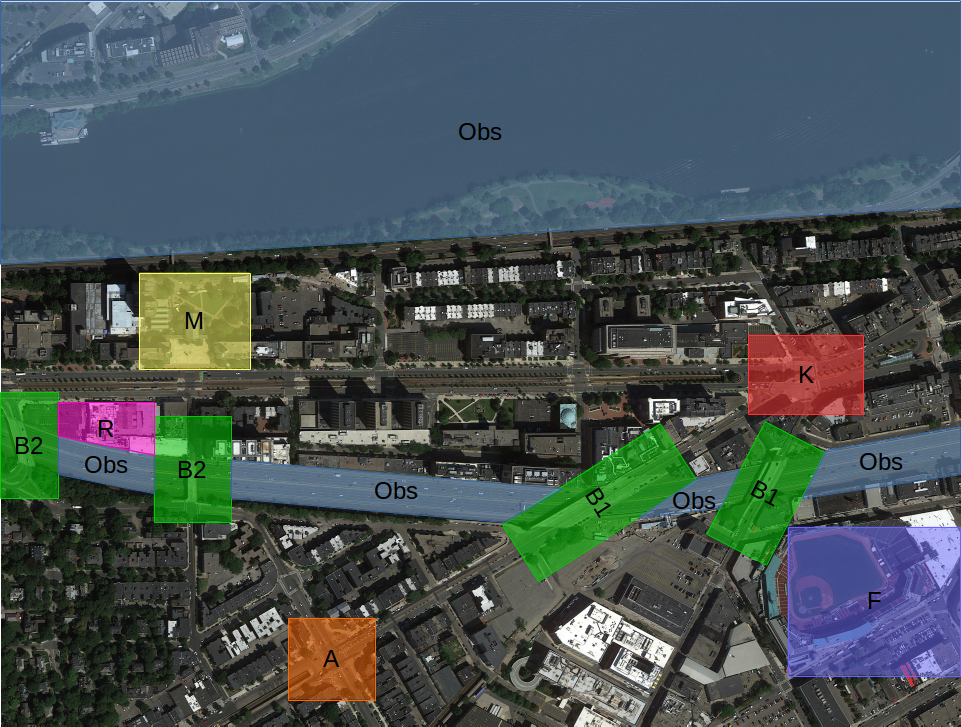
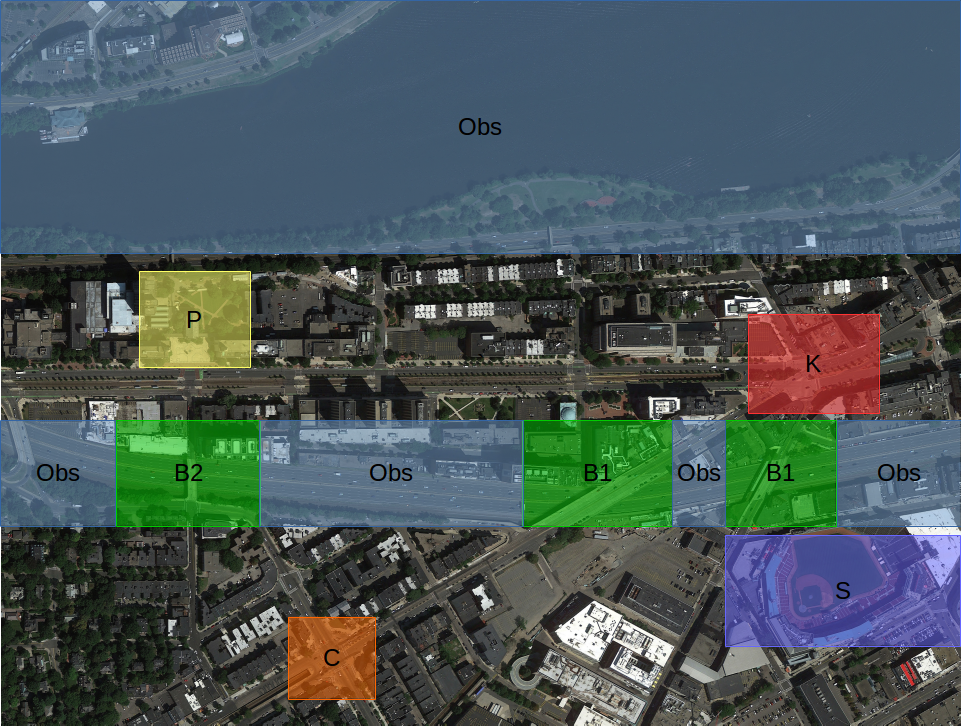
Added background image to mission visualization.

diff --git a/src/firm/mission.py b/src/firm/mission.py
@@ -77,7 +77,7 @@ Vehicles: {vehicles}
         if self.environment.has_key('background'):
             img = plt.imread(self.environment['background'])
             img = np.flipud(img)
-#             plt.imshow(img, origin='lower', extent=(b[0][0], b[1][0], b[0][1], b[1][1]), zorder=1)
+            plt.imshow(img, origin='lower', extent=(b[0][0], b[1][0], b[0][1], b[1][1]), zorder=1)
         # draw sites and bases
         for _, data in it.chain(self.environment['regions'].iteritems(),
                          self.environment['bases'].iteritems(),
